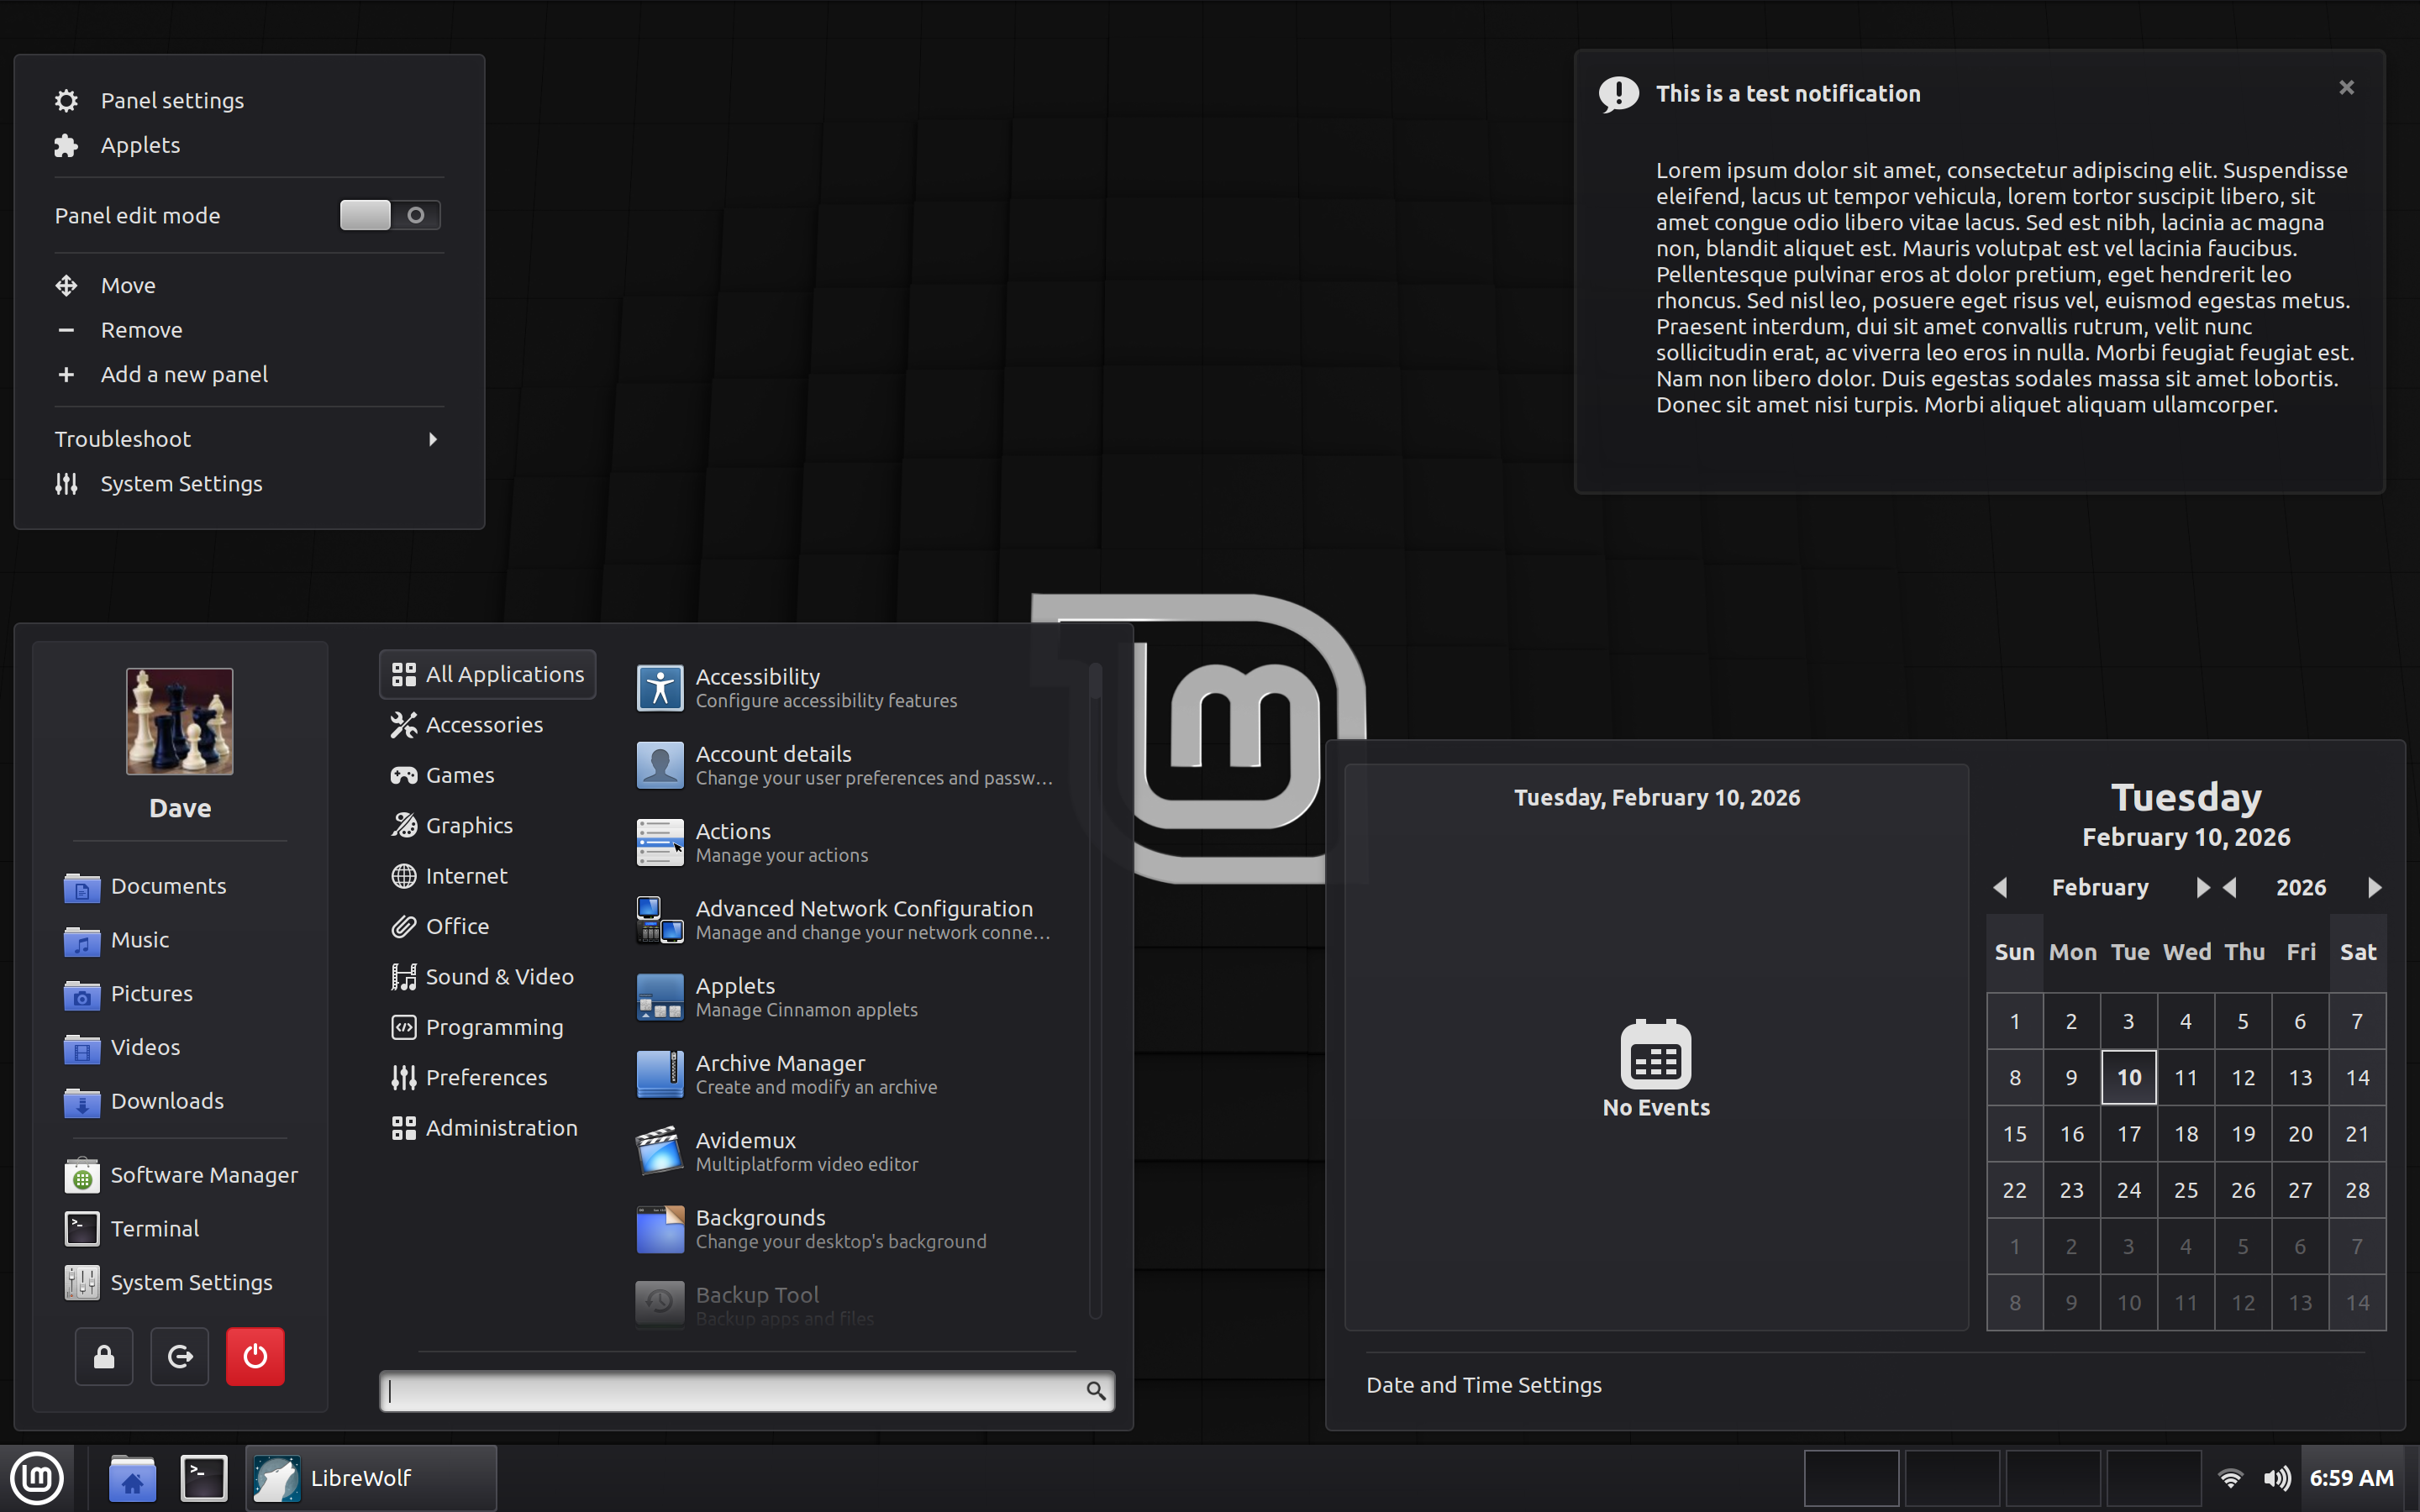
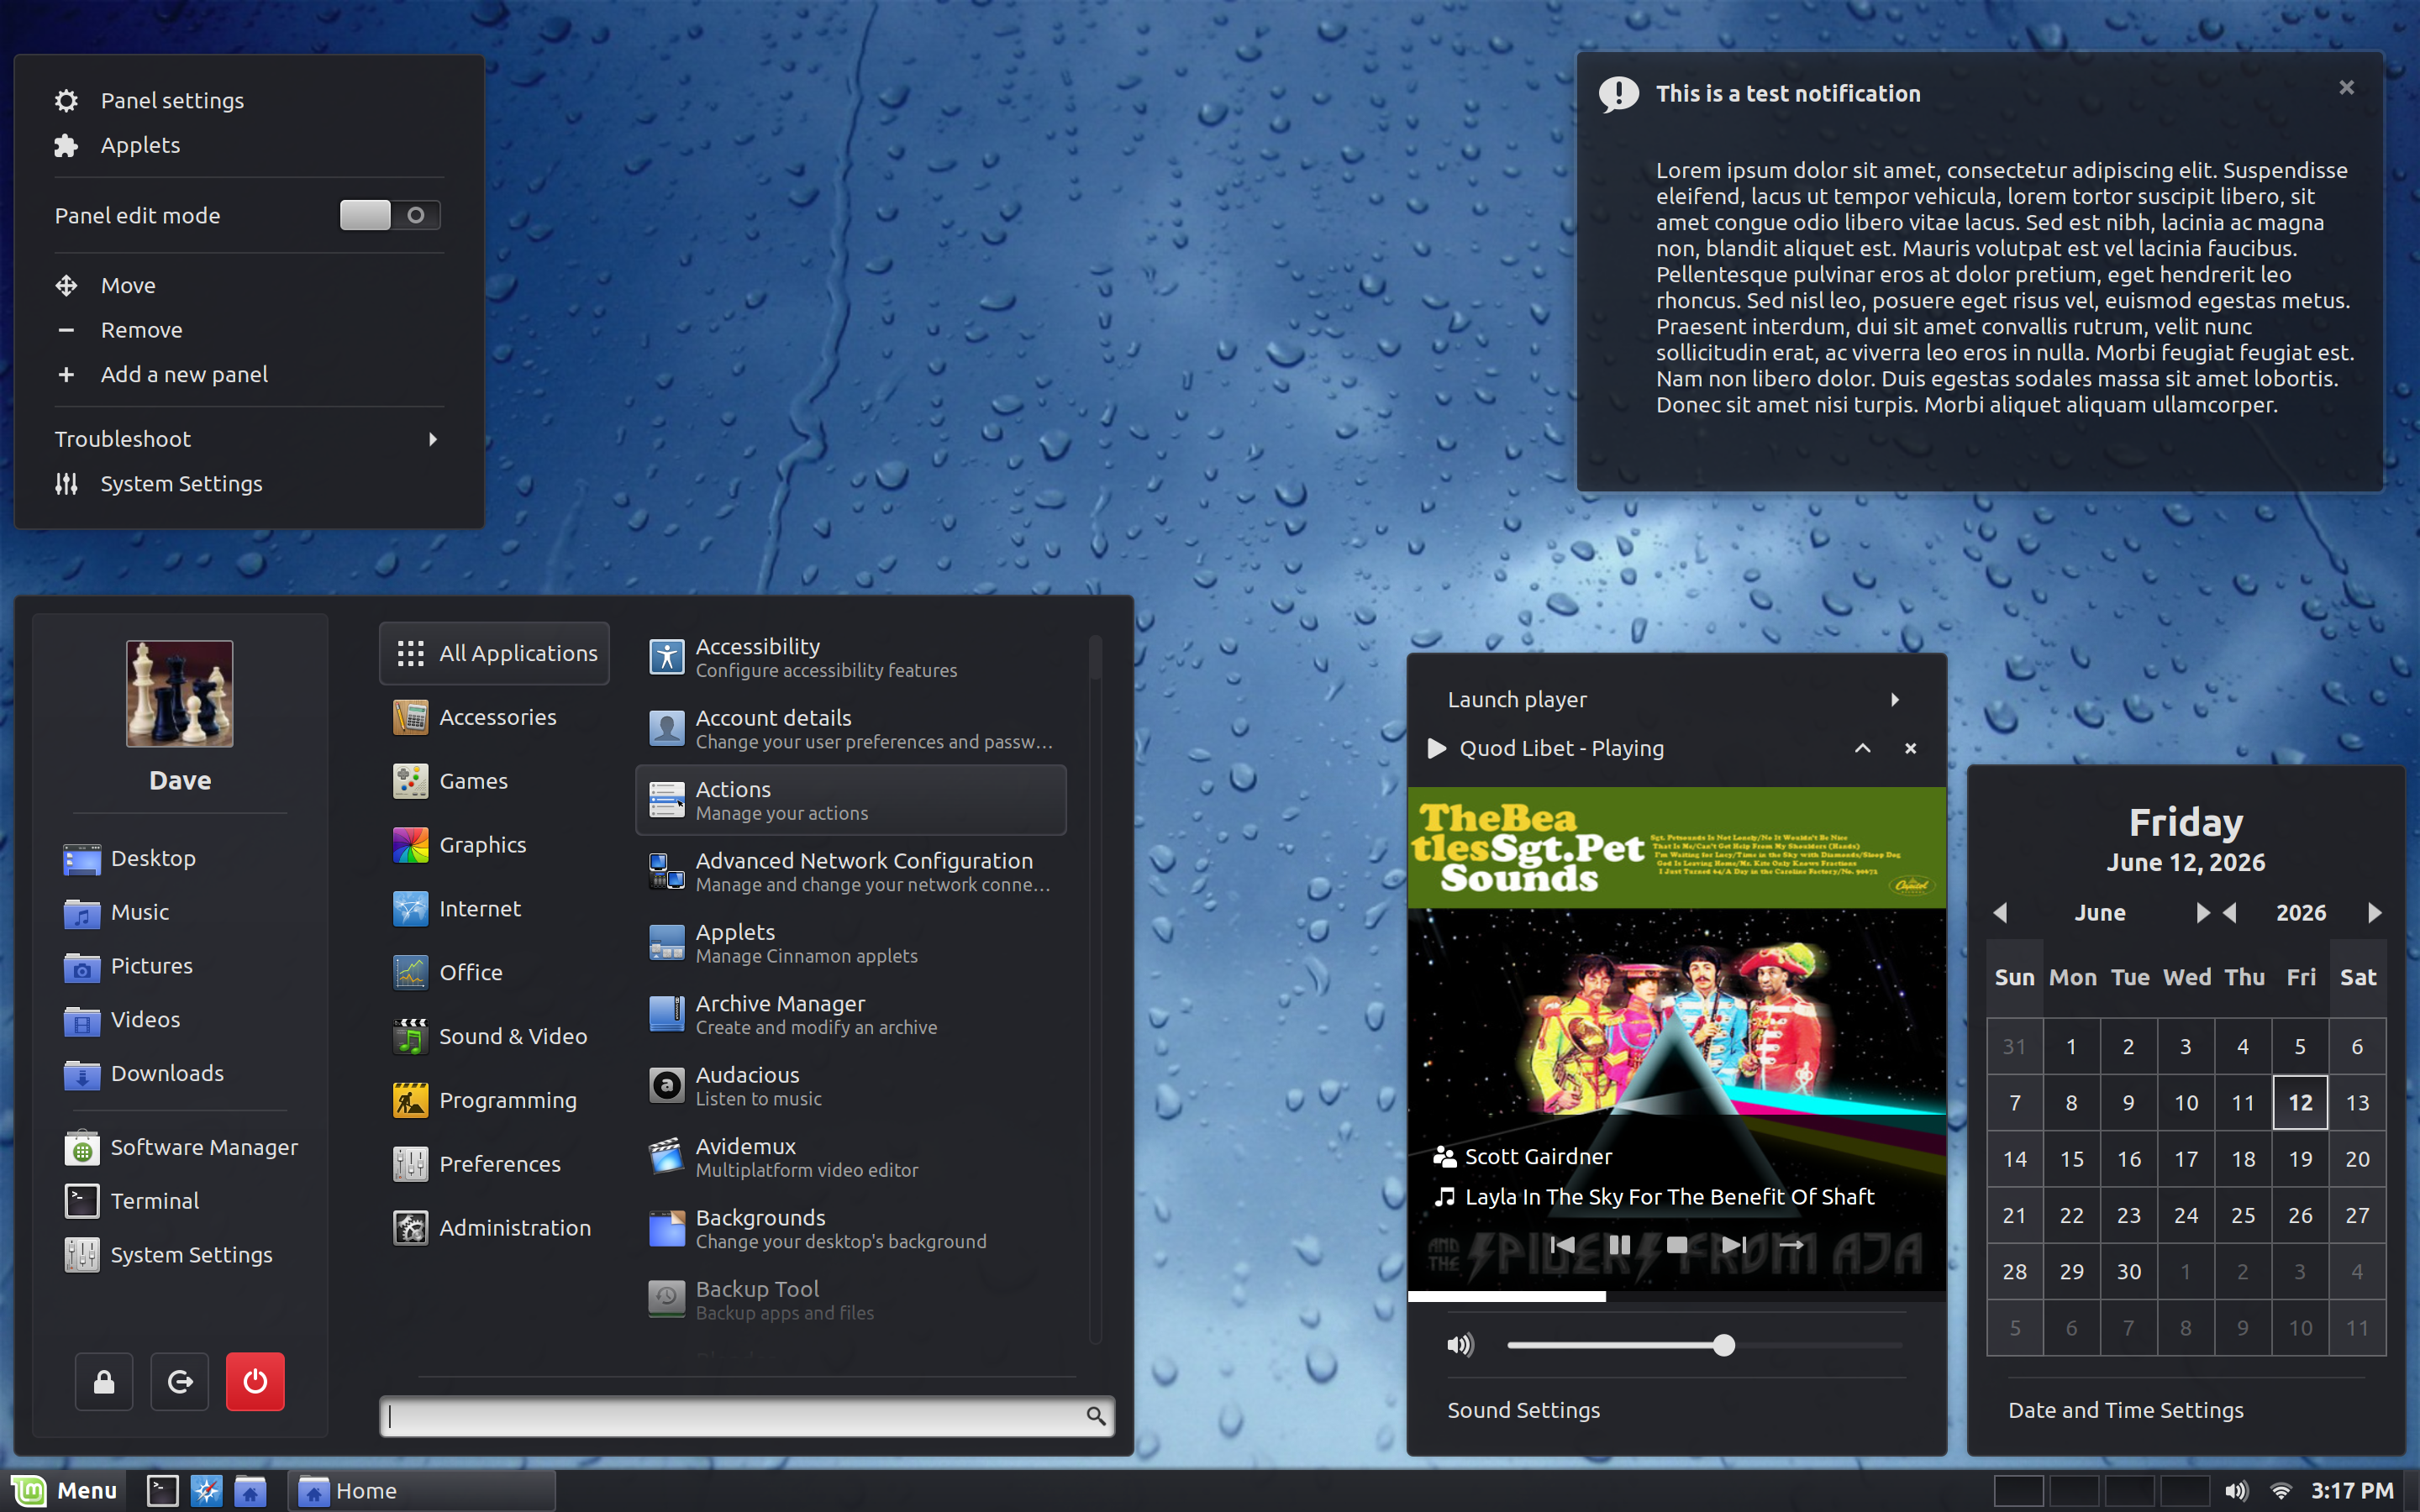
Merge pull request #962 from davefromtheunknown/master
Update: Linux-Mint-Refreshed

Pull request: Update: Linux-Mint-Refreshed

diff --git a/Linux-Mint-Refreshed/files/Linux-Mint-Refreshed/cinnamon/cinnamon.css b/Linux-Mint-Refreshed/files/Linux-Mint-Refreshed/cinnamon/cinnamon.css
@@ -967,7 +967,7 @@ StScrollBar {
   border-radius: 4px; }
 
 .menu-favorites-button {
-  padding: .9em 1em;
+  padding: 10px;
   border: 1px solid rgba(0, 0, 0, 0);
   border-radius: 6px; }
   .menu-favorites-button:hover {
@@ -986,8 +986,11 @@ StScrollBar {
 .menu-categories-box {
   padding: 10px 30px 10px 30px; }
 
-.menu-applications-inner-box, .menu-applications-outer-box {
+.menu-applications-inner-box {
   margin: 10px 10px 0 10px; }
+
+.menu-applications-outer-box {
+  margin: 0 10px 0 10px; }
 
 .menu-application-button {
   padding: 7px;
@@ -1123,12 +1126,13 @@ StScrollBar {
       background-color: #494951; }
     .appmenu-sidebar .appmenu-system-button-shutdown {
       color: white;
-      border-color: #ce1921;
+      border-color: #e83c44;
       background-gradient-direction: vertical;
 	  background-gradient-start: #e83c44;
 	  background-gradient-end: #ce1921; }
     .appmenu-sidebar .appmenu-system-button-shutdown:hover {
       color: white;
+	  border-color: #ce1921;
       background-gradient-direction: vertical;
 	  background-gradient-start: #ee4a52;
 	  background-gradient-end: #e22831; }
@@ -1154,7 +1158,7 @@ StScrollBar {
   border: 1px solid #303036; }
   .appmenu-system-button-shutdown {
     color: white;
-    border-color: #ce1921;
+    border-color: #e83c44;
     background-gradient-direction: vertical;
 	background-gradient-start: #e83c44;
 	background-gradient-end: #ce1921; }
@@ -1164,6 +1168,7 @@ StScrollBar {
     background-color: #494951; }
   .appmenu-system-button-shutdown:hover {
     color: white;
+	border-color: #ce1921;
     background-gradient-direction: vertical;
 	background-gradient-start: #ee4a52;
 	background-gradient-end: #e22831; }
@@ -1209,7 +1214,7 @@ StScrollBar {
 .window-list-box {
   spacing: 3px;
   padding-left: 0px;
-  padding-top: 1px; }
+  padding-top: 0px; }
   .window-list-box.vertical {
     spacing: 2px;
     padding-left: 0px;
@@ -1289,7 +1294,7 @@ StScrollBar {
   background-gradient-end: rgba(28, 28, 32, 0.95);
   box-shadow: 0px 0px 4px 4px rgba(0, 0, 0, 0.2);
   border-radius: 4px;
-  margin: 3px;
+  margin: 0px;
   padding: 6px 12px 12px 12px;
   font-size: 1em; }
 
@@ -1576,8 +1581,8 @@ StScrollBar {
   padding-left: 0px;
   spacing: 0px; }
   .panel-launchers .launcher {
-    padding-left: 4px;
-    padding-right: 4px;
+    padding-left: 2px;
+    padding-right: 2px;
     padding-bottom: 0px;
     transition-duration: 100; }
     .panel-launchers .launcher:hover {
@@ -1585,8 +1590,8 @@ StScrollBar {
       background-gradient-start: rgba(220, 220, 230, 0.2);
       background-gradient-end: rgba(70, 70, 80, 0.2); }
   .panel-launchers.vertical {
-    padding-top: 4px;
-    padding-bottom: 4px;
+    padding-top: 2px;
+    padding-bottom: 2px;
     padding-left: 0px;
     padding-right: 0px;
     spacing: 0px; }
@@ -1794,31 +1799,36 @@ StScrollBar {
   font-size: 1em; }
 
 .audio-device-selection-dialog .audio-selection-box .audio-selection-device, .polkit-dialog-user-combo {
-  border: 1px solid #222226;
-  color: #e1e1e1;
-  background-color: #222226; }
+  border: 1px solid #303036;
+  background-gradient-direction: vertical;
+  background-gradient-start: rgba(46, 46, 51, 1);
+  background-gradient-end: rgba(28, 28, 32, 1);
+  color: #e1e1e1; }
   .audio-device-selection-dialog .audio-selection-box .audio-selection-device:focus, .polkit-dialog-user-combo:focus {
-    border: 1px solid #222226;
+    border: 1px solid #303036;
     color: #e1e1e1;
     background-color: #222226;
     border: 1px solid #6a6a77; }
   .audio-device-selection-dialog .audio-selection-box .audio-selection-device:hover, .polkit-dialog-user-combo:hover {
-    border: 1px solid #222226;
+    border: 1px solid #303036;
     color: #e1e1e1;
     background-color: #3a3a41;
     border: 1px solid #303036; }
   .audio-device-selection-dialog .audio-selection-box .audio-selection-device:insensitive, .polkit-dialog-user-combo:insensitive {
-    border: 1px solid #222226;
+    border: 1px solid #303036;
     color: rgba(225, 225, 225, 0.5);
     background-color: #222226; }
   .audio-device-selection-dialog .audio-selection-box .audio-selection-device:selected, .polkit-dialog-user-combo:selected, .audio-device-selection-dialog .audio-selection-box .audio-selection-device:active, .polkit-dialog-user-combo:active {
-    border: 1px solid #222226;
-    color: #e1e1e1;
-    background-color: #2e2e33; }
+    border: 1px solid #303036;
+    background-gradient-direction: vertical;
+    background-gradient-start: rgba(28, 28, 32, 1);
+    background-gradient-end: rgba(34, 34, 38, 1); }
   .audio-device-selection-dialog .audio-selection-box .audio-selection-device:checked, .polkit-dialog-user-combo:checked {
-    border: 1px solid #222226;
+    border: 1px solid #303036;
     color: #e1e1e1;
-    background-color: #2e2e33; }
+    background-gradient-direction: vertical;
+    background-gradient-start: rgba(28, 28, 32, 1);
+    background-gradient-end: rgba(34, 34, 38, 1); }
 
 .dialog .dialog-button, .dialog .dialog-button:destructive-action, .dialog .dialog-button:default {
   font-weight: bold;
@@ -2031,7 +2041,7 @@ StScrollBar {
   .audio-device-selection-dialog .audio-selection-box {
     spacing: 12px; }
     .audio-device-selection-dialog .audio-selection-box .audio-selection-device {
-      border-radius: 20px; }
+      border-radius: 4px; }
       .audio-device-selection-dialog .audio-selection-box .audio-selection-device .audio-selection-device-box {
         padding: 12px;
         spacing: 12px; }

diff --git a/Linux-Mint-Refreshed/README.md b/Linux-Mint-Refreshed/README.md
@@ -1,17 +1,4 @@
 ## Linux Mint Refreshed
 ### Based on the "Linux Mint" Cinnamon DE theme that used to ship with Linux Mint prior to Mint 22.
 
-> #### Changes from the original theme:
->
-> - Changed the color scheme and spacing to be well integrated with the Mint-Y themes.
-> - Changed the close buttons to be more legible.
-> - Added custom theme for keyboard, dialogs, overview, info, tooltips, and switchers.
-> - Added a Mint-X-like expo.
-> - Revamped the looks of "Window List" and "Grouped Window List" applets.
-> - Other minor visual enhancements.
-
 This desktop theme is compatible with the [Classic Menu](https://cinnamon-spices.linuxmint.com/applets/view/432) applet.
-
-## Credits
-### The Mint Teams for the original theme.
-